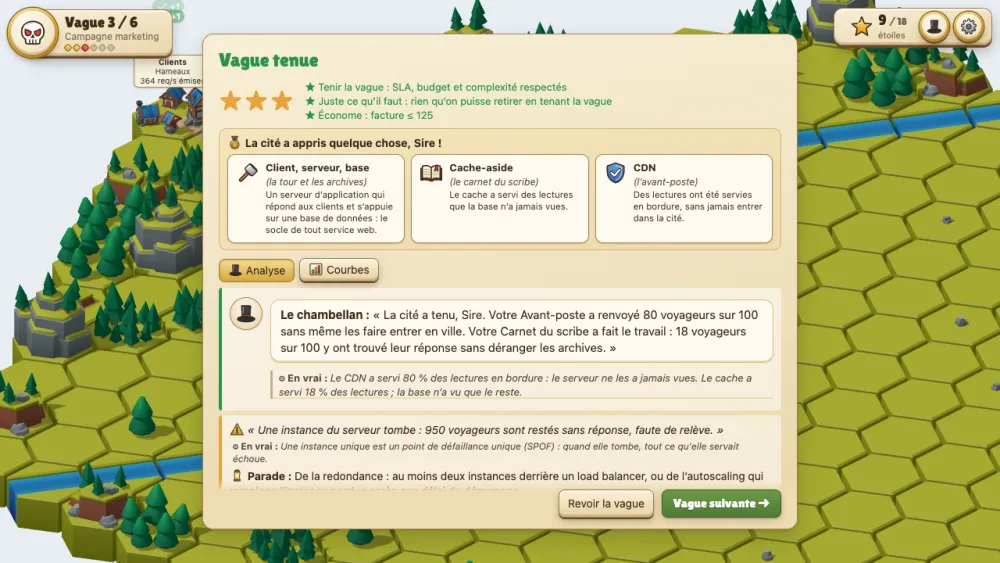
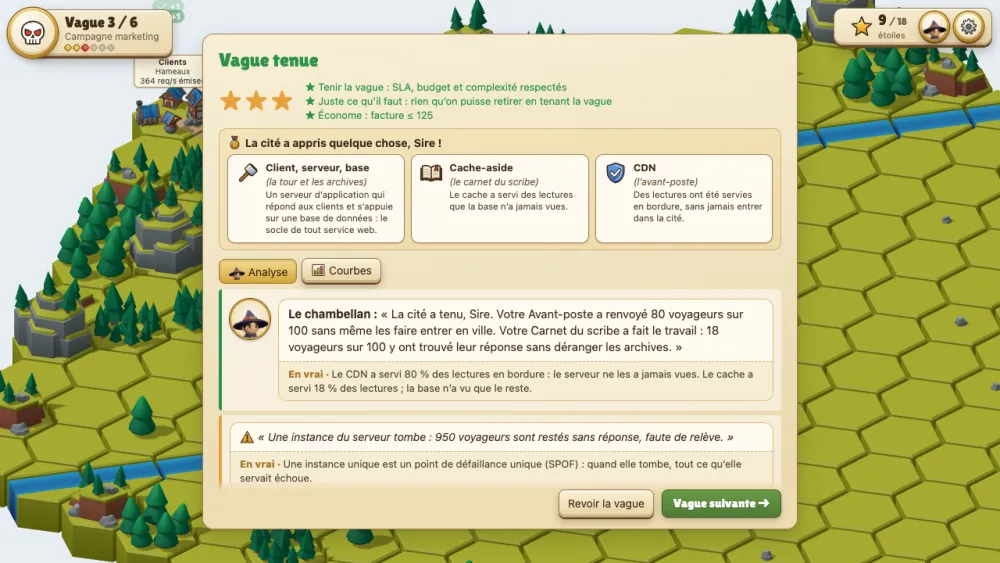
Le chambellan a un visage, le mage du kit, et « En vrai » vit dans sa bulle, sous un filet pointillé, sans italique ni ombre (I22) ; les captures du README le montrent

Changed region(s): [[0.217, 0.4529, 0.775, 0.7247], [0.217, 0.7549, 0.775, 0.8757], [0.93, 0.0302, 0.961, 0.0906]]

diff --git a/design.html b/design.html
@@ -216,7 +216,7 @@
 
 
       /* ——— Variantes, dans la matière retenue ——— */
-      /* ——— Le chambellan et « En vrai » : les propositions ——— */
+      /* ——— Le chambellan et « En vrai » (retenu, I22) ——— */
       .narr { display: grid; grid-template-columns: repeat(auto-fit, minmax(330px, 1fr)); gap: 16px; }
       .narr-card { background: var(--plank); border: 2px solid var(--edge); border-radius: 14px; padding: 12px 14px 14px; box-shadow: var(--raise); display: grid; gap: 8px; align-content: start; }
       .narr-card > b { font: 16px var(--display); color: var(--text); }
@@ -235,25 +235,11 @@
       .say .line { margin: 0; padding: 8px 12px; background: #fffaf0; border: 1px solid #d9bb7c; border-radius: 12px; font-size: 14px; line-height: 1.4; color: #3b2a1a; }
       .say .line b { font-weight: 700; }
       .say .real { margin: 0; font-size: 12.5px; line-height: 1.4; color: #4a3d2c; }
-      /* A : l'actuel, avec l'ombre qui reste sous la ligne */
-      .ev-a .line { box-shadow: inset 0 -2px 0 #ecd9ad; }
-      .ev-a .real { font-style: italic; border-left: 3px solid #b9a77f; padding: 0 8px; box-shadow: inset 0 -2px 0 #ecd9ad; }
-      .ev-a .real::before { content: '⚙ En vrai : '; font-style: normal; font-weight: 700; }
-      /* B : note de marge, étiquette en petites capitales laiton */
-      .ev-b .real { padding: 0 2px 0 14px; }
-      .ev-b .real::before { content: 'En vrai'; display: block; font: 10px/1.6 system-ui; font-weight: 800; letter-spacing: .12em; text-transform: uppercase; color: #a5772a; }
-      /* C : fiche technique, une seconde carte sous la bulle */
-      .ev-c .real { background: #f3e6c4; border: 1px dashed #b9965a; border-radius: 10px; padding: 7px 10px 8px; }
-      .ev-c .real::before { content: 'En vrai'; display: inline-block; margin-right: 6px; padding: 0 7px; border-radius: 999px; background: linear-gradient(#f6dd92, #d3a63b); border: 1px solid #a57f25; font: 11px/1.6 var(--display); color: #3b2a1a; }
       /* D : une seule bulle, le vrai sous un filet */
       .ev-d .bubble { background: #fffaf0; border: 1px solid #d9bb7c; border-radius: 12px; gap: 0; overflow: hidden; }
       .ev-d .line { border: 0; border-radius: 0; background: none; }
       .ev-d .real { padding: 7px 12px 8px; border-top: 1px dashed #d1b37a; background: #f6ecd2; }
       .ev-d .real::before { content: 'En vrai · '; font-weight: 800; color: #a5772a; }
-      /* E : un sceau de laiton en marge */
-      .ev-e .real { display: grid; grid-template-columns: auto 1fr; gap: 8px; align-items: start; }
-      .ev-e .real::before { content: 'EN\A VRAI'; white-space: pre; width: 34px; height: 34px; border-radius: 50%; display: grid; place-items: center; text-align: center;
-        font: 8.5px/1 system-ui; font-weight: 900; letter-spacing: .04em; color: #5a3a12; background: radial-gradient(circle at 40% 35%, #ffe9a8, #c9982f); border: 1.5px solid #8a6220; box-shadow: 0 1px 2px rgba(40,25,10,.3); transform: rotate(-8deg); }
       .chosen { background: var(--hexes), var(--board); border-radius: 14px; padding: 18px 16px 22px; display: grid; gap: 18px; }
       .chosen h3 { margin: 0; font: 18px var(--display); color: #fff; text-shadow: 0 1px 2px rgba(0,0,0,.5); }
       .variants { display: grid; grid-template-columns: repeat(auto-fill, minmax(168px, 1fr)); gap: 12px; }
@@ -658,11 +644,11 @@
       </section>
 
       <section>
-        <h2>Le chambellan et « En vrai » — propositions</h2>
+        <h2>Retenu : le chambellan et « En vrai »</h2>
         <p class="lead">
-          Un vrai personnage du kit à la place du chapeau, rendu une fois en portrait sur fond transparent
-          (<code>src/render/avatar.ts</code>). Puis cinq façons de poser la ligne « En vrai » sous sa réplique,
-          la première étant l'actuelle.
+          Le mage du kit, en buste (<code>public/narrator.webp</code>, rendu par <code>npm run captures -- narrateur</code>
+          avec <code>src/render/avatar.ts</code>). Sa réplique et la même chose « en vrai » dans une seule bulle, sous un filet
+          pointillé (I22).
         </p>
         <div class="narr" id="narrator"></div>
       </section>
@@ -830,23 +816,14 @@
       // ——— Le chambellan : portraits 3D et « En vrai » ———
       const SAYS = '« Les lectures explosent, Sire : dix fois plus de voyageurs demandent leur chemin. Comment soulager les archives sans vider le trésor ? »';
       const REAL = 'Les liens circulent : 900 lectures par seconde, toujours 10 écritures. Une base seule encaisse 600 requêtes par seconde.';
-      const CANDIDATES = [
-        ['mage', 'Le mage', 'robe, chapeau pointu : le conseiller savant', '/models/kaykit-chars/Mage.glb', 'Walking_B'],
-        ['barbarian', 'Le barbare', 'le garde de la porte, chope en main', '/models/kaykit-chars/Barbarian.glb', 'Walking_A'],
-        ['rogue', 'Le rôdeur', 'la cape, le messager', '/models/kaykit-chars/Rogue.glb', 'Running_A'],
-      ];
+      const CANDIDATES = [['mage', 'Le mage', '', '/models/kaykit-chars/Mage.glb', 'Walking_B']];
       const say = (cls, avatar, label, hint) => `<div class="narr-card"><b>${label}</b><small>${hint}</small>
         <div class="say ${cls}">${avatar}<div class="bubble"><p class="line"><b>Le chambellan :</b> ${SAYS}</p><p class="real">${REAL}</p></div></div></div>`;
       const avatar = (key, cls = '') => `<span class="avatar ${cls}" data-portrait="${key}"></span>`;
       document.getElementById('narrator').innerHTML = [
-        `<div class="narr-card" style="grid-column: 1 / -1"><b>Le personnage</b><small>Rendu sur la pose de marche des fichiers allégés. Le chevalier et le rôdeur encapuchonné du même pack ne sont pas encore dans le dépôt.</small>
-          <div class="who">${CANDIDATES.map(([k, label, hint]) => `<figure>${avatar(k, 'lg')}<b style="font:14px var(--display);color:var(--text)">${label}</b><span>${hint}</span><span style="display:flex;gap:6px">${avatar(k)}${avatar(k, 'sm')}</span></figure>`).join('')}
-          <figure><span class="avatar lg empty">Chevalier<br>(à télécharger)</span><b style="font:14px var(--display);color:var(--text)">Le chevalier</b><span>l'officier de la cour, armure et cape</span></figure></div></div>`,
-        say('ev-a', avatar('mage', 'sm'), 'A · L’actuel', 'italique, filet gauche, et l’ombre du bas de bulle qui reste sous la ligne'),
-        say('ev-b', avatar('mage', 'sm'), 'B · Note de marge', 'une petite étiquette « EN VRAI » en laiton, le texte droit, sans cadre ni ombre'),
-        say('ev-c', avatar('mage', 'sm'), 'C · Fiche technique', 'une seconde carte sous la bulle, pointillés et pastille de laiton'),
-        say('ev-d', avatar('mage', 'sm'), 'D · Une seule bulle', 'la métaphore en haut, le vrai en dessous d’un filet pointillé, dans la même bulle'),
-        say('ev-e', avatar('mage', 'sm'), 'E · Le sceau', 'un sceau de laiton « En vrai » en marge, le texte à côté'),
+        `<div class="narr-card"><b>Le personnage</b><small>Dans les bulles, sur le bouton « Revoir le briefing » et l'onglet « Analyse ».</small>
+          <div class="who"><figure>${avatar('mage', 'lg')}</figure><figure>${avatar('mage')}</figure><figure>${avatar('mage', 'sm')}</figure></div></div>`,
+        say('ev-d', avatar('mage', 'sm'), 'La bulle', 'la métaphore en haut, le vrai en dessous d’un filet pointillé, dans la même bulle'),
       ].join('');
       import('/src/render/avatar.ts').then(async ({ portraitOf }) => {
         for (const [key, , , url, clip] of CANDIDATES) {

diff --git a/src/ui/style.css b/src/ui/style.css
@@ -146,14 +146,26 @@ select, input { font: inherit; color: var(--ink); background: #fffaf0; border: 2
 
 /* Le narrateur : son médaillon et sa bulle. */
 .speech { display: flex; gap: 10px; align-items: flex-start; margin: 6px 0; }
-.speech .speaker { flex: none; width: 40px; height: 40px; border-radius: 50%; display: grid; place-items: center; background: radial-gradient(circle at 50% 35%, #fffaf0, #e6d2a2);
-  border: 1px solid var(--line); box-shadow: 0 1px 2px rgba(30, 20, 8, .2); }
-.speech .speaker .ico { width: 28px; height: 28px; }
-.speech p { margin: 0; padding: 8px 12px; background: #fffaf0; border: 1px solid #d9bb7c; border-radius: 12px; font-size: 15px; box-shadow: inset 0 -2px 0 #ecd9ad; }
+.speech .speaker { flex: none; width: 48px; height: 48px; border-radius: 50%; overflow: hidden; display: grid; place-items: end center;
+  background: radial-gradient(circle at 50% 40%, #fffaf0, #e6cf98); border: 2.5px solid #c9982f; box-shadow: 0 0 0 1px #6b4a1a, 0 2px 4px rgba(30, 20, 8, .3); }
+.face { display: block; width: 100%; height: 100%; object-fit: cover; }
+/* Le visage du chambellan dans un bouton (revoir le briefing, l'onglet Analyse). */
+button .face { display: inline-block; width: 22px; height: 22px; border-radius: 50%; object-fit: cover; vertical-align: -5px; }
+button.round .face { width: 100%; height: 100%; }
+
+/*
+ * La bulle (I22) : ce qui est dit en haut, la même chose en vrai en dessous d'un filet
+ * pointillé, dans la même bulle. Pas d'ombre intérieure : elle traînait sous la ligne.
+ */
+.bubble { flex: 1; min-width: 0; background: #fffaf0; border: 1px solid #d9bb7c; border-radius: 12px; overflow: hidden; }
+.bubble .line { margin: 0; padding: 8px 12px; font-size: 15px; }
+.bubble .real { margin: 0; padding: 6px 12px 7px; border-top: 1px dashed #d1b37a; background: #f6ecd2; font-size: 13px; font-style: normal; color: #4a3d2c; opacity: 1; }
+.bubble .real::before { content: 'En vrai · '; font-weight: 800; color: #a5772a; }
 .findings { display: grid; gap: 6px; margin: 8px 0; }
 .finding { padding: 6px 10px; border-left: 4px solid #ccc; background: rgba(255, 255, 255, 0.5); border-radius: 4px; }
 .finding p { margin: 3px 0; }
-.finding .says { font-style: italic; }
+/* Les constats suivants, une bulle sans visage, un peu plus petite. */
+.finding > .bubble .line { font-size: 14px; font-style: italic; }
 .finding.bad { border-color: var(--ko); }
 .finding.good { border-color: var(--ok); }
 .finding.warn { border-color: #e9a23b; }
@@ -227,12 +239,12 @@ body[data-phase='debrief'] .replay-bar, body[data-phase='debrief'] .replay-chart
 }
 
 /* Double narration : sous la bulle du chambellan, la même chose en vrai. */
-.speech > div { display: flex; flex-direction: column; gap: 4px; }
-.real { margin: 0; padding: 0 4px; font-style: italic; color: #4a3d2c; font-size: 13px; }
-.real::before { content: '⚙ En vrai : '; font-style: normal; font-weight: bold; }
-/* Une ligne qui porte sa propre étiquette (« En vrai », le nom d'une évolution) ne garde que le rouage. */
-.real.named::before { content: '⚙ '; }
-.finding .real { margin: 3px 0; }
+.real { margin: 0; padding: 0 4px; color: #4a3d2c; font-size: 13px; }
+.real::before { content: 'En vrai · '; font-weight: 800; color: #a5772a; }
+/* Une ligne qui porte sa propre étiquette (« En vrai », le nom d'une évolution) n'en ajoute pas. */
+.real.named::before { content: none; }
+.real.named b { color: #a5772a; }
+.finding > .bubble { margin: 3px 0; }
 .incident { margin: 4px 0; padding: 4px 8px; border-left: 4px solid #e9a23b; background: rgba(233, 162, 59, 0.15); border-radius: 4px; }
 
 /* Étoiles. */
@@ -248,16 +260,14 @@ body[data-phase='debrief'] .replay-bar, body[data-phase='debrief'] .replay-chart
 /* Aide : les indices donnés sous la bulle, puis le bouton qui en demande un de plus. */
 .hints { margin-top: 4px; padding-top: 4px; border-top: 1px dashed #cbb98f; }
 .hints ol { list-style: none; margin: 0 0 4px; padding: 0; display: flex; flex-direction: column; gap: 4px; max-height: 32vh; overflow-y: auto; }
-.hints li p { margin: 0; font-size: 13px; }
-.hints li .says { padding: 2px 6px; }
-.hints li .says small { color: var(--ok); font-weight: bold; }
+.hints li .bubble .line { font-size: 13px; padding: 5px 10px; }
+.hints li .bubble .real { font-size: 12px; padding: 4px 10px 5px; }
+.hints li .line small { color: var(--ok); font-weight: bold; }
 .hints li.done { opacity: .6; }
 .hint-ask { display: flex; align-items: center; gap: 8px; margin: 0; flex-wrap: wrap; }
 .pip.hint .icon { opacity: 1; }
-.speech p.real { background: none; border: none; border-left: 3px solid #b9a77f; border-radius: 0; padding: 0 8px; font-size: 13px; }
-.card .speech .speaker { width: 30px; height: 30px; }
-.card .speech .speaker .ico { width: 21px; height: 21px; }
-.card .speech p { font-size: 13px; }
+.card .speech .speaker { width: 34px; height: 34px; border-width: 2px; }
+.card .speech .bubble .line { font-size: 13px; }
 
 /* Courbes tick par tick : une figure, un axe des ticks partagé. */
 .chart { position: relative; overflow-x: auto; }

diff --git a/src/ui/views/common.ts b/src/ui/views/common.ts
@@ -158,14 +158,20 @@ export function findingsOf(a: Attempt, wave: Wave, s: ViewState): Finding[] {
   return analysis.findings;
 }
 
+/** Le visage du narrateur : son portrait, chemin relatif au site (`base: './'`). */
+export const narratorFace = () => `<img class="face" src="${esc(theme.narrator.portrait)}" alt="" draggable="false">`;
+
+/** Une bulle : ce qui est dit, puis, sous un filet, la même chose en vrai (décision I6, présentation I22). */
+export const bubble = (said: string, real?: string) =>
+  `<div class="bubble"><p class="line">${said}</p>${real ? `<p class="real">${esc(real)}</p>` : ''}</div>`;
+
 /**
- * Double narration : le chambellan parle dans la métaphore, la ligne en italique dit la
- * même chose en vrai, avec les termes techniques. La métaphore seule ne s'apprend pas.
+ * Double narration : le chambellan parle dans la métaphore ; sous un filet, dans la même
+ * bulle, la même chose en vrai, avec les termes techniques. La métaphore seule ne s'apprend pas.
  */
 export function speech(text: string, real?: string): string {
-  return `<div class="speech"><span class="speaker">${icon('hat')}</span>
-    <div><p><b>${esc(theme.narrator.name)} :</b> « ${esc(text)} »</p>
-    ${real ? `<p class="real">${esc(real)}</p>` : ''}</div></div>`;
+  return `<div class="speech"><span class="speaker">${narratorFace()}</span>
+    ${bubble(`<b>${esc(theme.narrator.name)} :</b> « ${esc(text)} »`, real)}</div>`;
 }
 
 /**
@@ -184,7 +190,5 @@ export function renderHints(panel: HintPanel): string {
 }
 
 function givenHint({ text, done }: HintPanel['given'][number]): string {
-  return `<li class="${done ? 'done' : 'todo'}">
-        <p class="says">${icon(done ? 'check' : 'bulb')} « ${esc(text.says)} »${done ? ' <small>fait</small>' : ''}</p>
-        <p class="real">${esc(text.real)}</p></li>`;
+  return `<li class="${done ? 'done' : 'todo'}">${bubble(`${icon(done ? 'check' : 'bulb')} « ${esc(text.says)} »${done ? ' <small>fait</small>' : ''}`, text.real)}</li>`;
 }

diff --git a/src/ui/views/hud.ts b/src/ui/views/hud.ts
@@ -2,7 +2,7 @@ import type { Wave } from '../../engine/types.ts';
 import { starCount } from '../../engine/score.ts';
 import { draftInfo } from '../draft.ts';
 import { icon, type IconName } from '../icons.ts';
-import { decimal as fmt, esc, realGame, totalStars, type ViewState } from './common.ts';
+import { decimal as fmt, esc, narratorFace, realGame, totalStars, type ViewState } from './common.ts';
 
 const KINDS: { k: 'read' | 'write' | 'async'; icon: IconName; short: string; tip: string }[] = [
   { k: 'read', icon: 'read', short: 'lectures/s', tip: 'Lectures par seconde au plus fort de la vague' },
@@ -78,7 +78,7 @@ export function renderHud(s: ViewState): string {
   const subtitle = wave ? esc(wave.title) : esc(s.scenario.subtitle);
   // Pendant la vague, les étoiles d'avant : le résultat se découvre au debrief.
   const stars = s.phase !== 'wave' || !playing ? totalStars(s) : s.practice ? (s.practice.before ?? totalStars(s)) : starsBefore(s, playing.waveIndex);
-  const briefing = wave ? `<button class="round" data-action="show-briefing" data-tip="Revoir le briefing" aria-label="Revoir le briefing">${icon('hat')}</button>` : '';
+  const briefing = wave ? `<button class="round" data-action="show-briefing" data-tip="Revoir le briefing" aria-label="Revoir le briefing">${narratorFace()}</button>` : '';
   return `
     <div class="hud-bar">
       <div class="wave-badge" data-tip="${esc(s.scenario.subtitle)}">

diff --git a/src/ui/views/dialog.ts b/src/ui/views/dialog.ts
@@ -6,6 +6,8 @@ import { draftInfo } from '../draft.ts';
 import { minuteSpan } from '../time.ts';
 import {
   activeClass,
+  bubble,
+  narratorFace,
   decimal as fmt,
   esc,
   findingsOf,
@@ -68,7 +70,7 @@ function debriefTitle(a: Attempt): string {
 
 function debriefTabs(s: ViewState): string {
   return `<p class="tabs">
-      <button data-action="debrief-tab" data-tab="analysis" ${activeClass(s.debriefTab === 'analysis')}>${icon('hat')} Analyse</button>
+      <button data-action="debrief-tab" data-tab="analysis" ${activeClass(s.debriefTab === 'analysis')}>${narratorFace()} Analyse</button>
       <button data-action="debrief-tab" data-tab="charts" ${activeClass(s.debriefTab === 'charts')}>${icon('chart')} Courbes</button>
     </p>`;
 }
@@ -106,7 +108,7 @@ const TONE_ICONS: Record<Finding['tone'], string> = { good: icon('check'), warn:
 /** Le premier constat parle dans la bulle du narrateur, les suivants en dessous. */
 function findingLine(f: Finding, first: boolean): string {
   if (first) return speech(f.says, f.tech);
-  return `<p class="says">${TONE_ICONS[f.tone]} « ${esc(f.says)} »</p>${f.tech ? `<p class="real">${esc(f.tech)}</p>` : ''}`;
+  return bubble(`${TONE_ICONS[f.tone]} « ${esc(f.says)} »`, f.tech);
 }
 
 /** L'analyse du narrateur : ce qu'il dit, l'explication technique, la parade, la notion à réviser. */

diff --git a/src/render/theme.ts b/src/render/theme.ts
@@ -40,7 +40,8 @@ export interface Theme {
   buildings: Record<string, BuildingStyle>;
   vehicles: Record<RequestKind, VehicleStyle>;
   /** Le personnage qui annonce les vagues et analyse les défaites : le recruteur, dans la métaphore. */
-  narrator: { name: string; icon: string };
+  /** Le narrateur : son nom, et son portrait (un personnage du kit, rendu par `npm run captures -- narrateur`). */
+  narrator: { name: string; portrait: string };
   /** Le récit de chaque vague dans la métaphore (clé : id de la vague) ; les chiffres restent affichés à côté. */
   narratives: Record<string, string>;
   /** La règle du temps (décision M7), annoncée au premier briefing de chaque scénario : sa réplique, puis « En vrai ». */

diff --git a/src/data/themes/fortified-city.ts b/src/data/themes/fortified-city.ts
@@ -90,7 +90,7 @@ export const fortifiedCity: Theme = {
       },
       metaphor: 'Crieur public', icon: '📣', shape: 'belfry', color: '#c7bfae', accent: '#3d5a80' },
   },
-  narrator: { name: 'Le chambellan', icon: '🎩' },
+  narrator: { name: 'Le chambellan', portrait: 'narrator.webp' },
   // Les pictogrammes du sprite (`src/ui/sprite.ts`, I18), par évolution du catalogue.
   upgradeIcons: {
     'horizontal-scaling': 'scale',

diff --git a/docs/decisions.md b/docs/decisions.md
@@ -92,6 +92,7 @@ Statut : **à appliquer** = décidé mais pas encore dans le code.
 | I19 | **L'enchaînement des écrans ne dit qu'une chose à la fois.** L'écran de choix n'a pas de barre du haut. Une fois le bâtiment posé, l'outil revient à la sélection. Pendant le rejeu, la barre du haut garde le score et les étoiles d'avant la vague ; le debrief les révèle. Au debrief, la barre du rejeu se retire, et « Revoir la vague » la ramène. Après la vague 1, le guide ne fait plus briller « Lancer la vague ». Sur un téléphone, Bâtir et Lancer ne gardent que leur pictogramme, et les boutons d'une fenêtre restent collés à son pied. | Relevé en jouant une partie de bout en bout, au bureau et sur téléphone. L'outil qui pose laissait « cliquer la case où bâtir » à l'écran pendant que le guide demandait déjà de relier. Le score montait dès le lancement et gâchait le debrief. La cité de la vague d'avant est valide mais perd, et faire briller son lancement poussait à l'échec. Sur 390 px, le lancement sortait de l'écran et « Construire » restait sous le pli. | Fait |
 | I20 | **Les succès : un concept appliqué dans une vague tenue.** 22 succès de concept (client-serveur, scalabilité horizontale, autoscaling, redondance, cache, cache froid, CDN, réplicas, rate limiting, quotas par client, file de messages, pub/sub, idempotence, outbox, file des lettres mortes, circuit breaker, paiement différé, request coalescing, backoff, load shedding, lecture sur le primaire, capacité de la file), plus un « sans indice » par scénario. Chacun se lit sur ce que le moteur publie (compteurs des ticks, échecs pendant un incident, liens parcourus, effets des évolutions) : `earned` dans `src/ui/achievements.ts`, sans simulation de plus. Gardés dans le magasin (`Store.achievements`), pour toutes les parties ; une fenêtre les montre depuis le menu et l'écran de choix, le debrief annonce ceux qu'une vague débloque. | François veut que les succès correspondent aux concepts qu'on veut apprendre. « Parade qui a tenu » plutôt que « composant posé » : on a compris et appliqué. Les tests exigent que chaque réponse attendue en débloque au moins un, et chaque succès au moins une réponse : une vague ou une parade ajoutée sans succès se voit. | Fait |
 | I21 | **Les chemins restent de la mise en scène** : leur longueur ne comptera ni en coût ni en latence (ferme la piste ouverte de I4). | Elle rendrait le placement stratégique, mais mêlerait une leçon de géographie à la leçon d'architecture et brouillerait les pistes ; le jeu ne fait pas de géographie. | Décidé |
+| I22 | **Le chambellan a un visage, et « En vrai » vit dans sa bulle.** Le chapeau devient le mage du kit KayKit, rendu une fois en buste sur fond transparent (`public/narrator.webp`, `npm run captures -- narrateur`, module `src/render/avatar.ts`) ; il parle dans les bulles, sur le bouton « Revoir le briefing » et l'onglet « Analyse ». Sa réplique et la même chose en vrai sont dans **une seule bulle** : la métaphore en haut, « En vrai · » en dessous d'un filet pointillé, sans italique ni ombre. Les constats du debrief et les indices prennent la même bulle, sans visage. | François trouvait que le chapeau « ne le faisait pas » et n'aimait pas la ligne « En vrai » : en italique sous la bulle, avec l'ombre du bas de bulle qui traînait dessous. Choisi sur la planche parmi le mage, le barbare et le rôdeur, et cinq présentations de « En vrai ». Une seule bulle lit la réplique et sa traduction comme un tout, et reste compacte au debrief où elles s'enchaînent. | Fait |
 | I2 | Pas de lien vers le calendrier dans le debrief. Le champ `conceptRef` des vagues reste : le contenu des fiches servira à écrire des explications dans le jeu. | Envoyer le joueur hors du jeu casse la boucle ; l'explication doit venir au moment où la vague casse. | Lien retiré ; explications à faire (lire `concepts.js`, repo voisin, `--add-dir` nécessaire) |
 
 ## Phase 2 : rendu

diff --git a/CLAUDE.md b/CLAUDE.md
@@ -195,7 +195,9 @@ moteur ou au calibrage. Toute nouvelle décision y est consignée, puis reporté
   partir des ticks (`from`/`until` des incidents, `src/ui/time.ts`) ; les débits restent par
   seconde, et les compteurs cumulés (arriéré d'une file) sont à l'échelle du jeu.
 - Double narration (décision I6) : nom technique d'abord, métaphore entre parenthèses ;
-  toute réplique du chambellan a sa ligne « En vrai ».
+  toute réplique du chambellan a sa ligne « En vrai ». Elle s'écrit avec `speech()` ou
+  `bubble()` (`src/ui/views/common.ts`) : une bulle, la réplique, puis « En vrai · » sous un
+  filet (I22). Le visage du chambellan est `narratorFace()`, une image de `public/`.
 - Les incidents (X5) sont calés pour ne faire perdre aucune réponse attendue : en ajouter
   un, c'est relancer `npm run balance` et `url-shortener.test.ts`.
 - Pas de cascade par saturation : un aval saturé ne ralentit pas l'amont (M3). La seule
